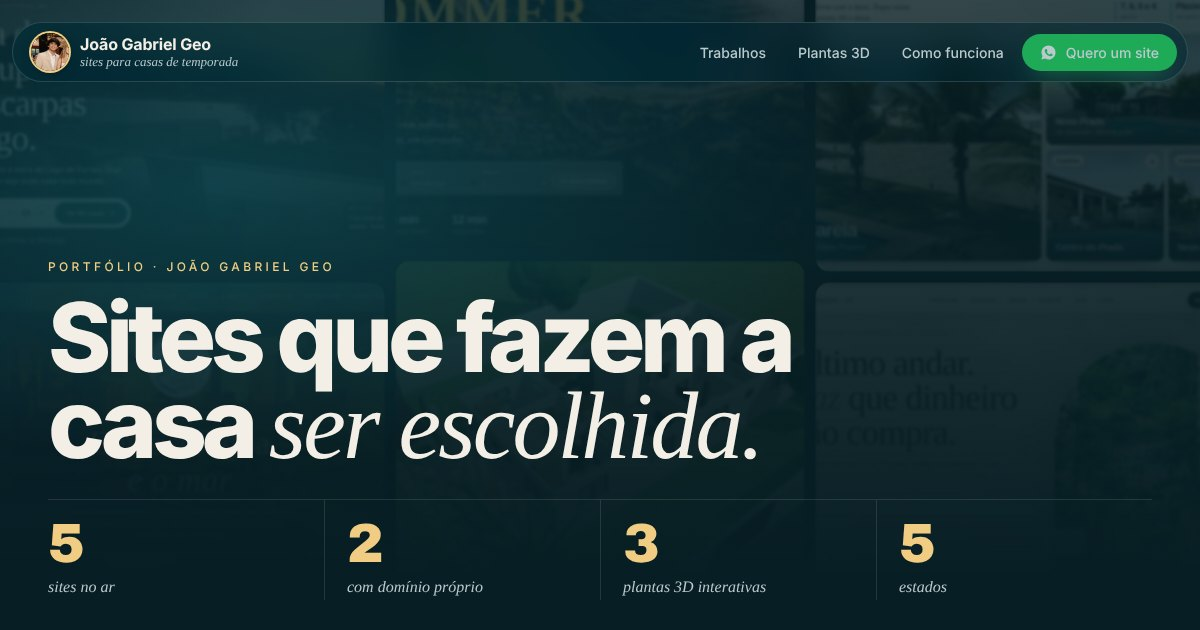
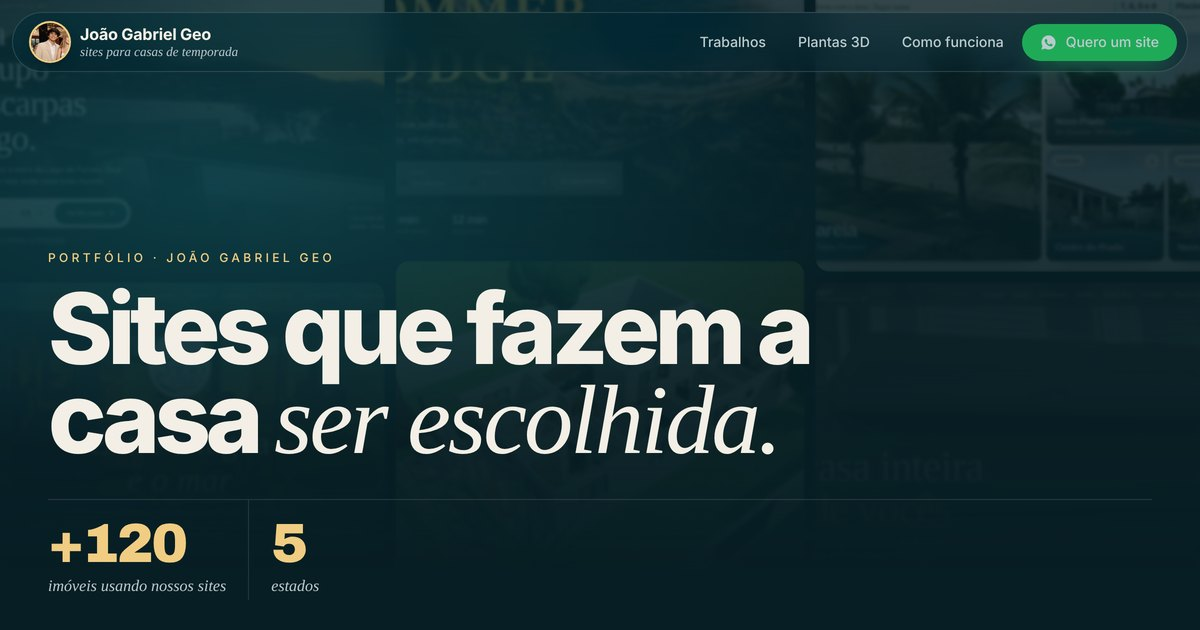
Portfolio: nova capa de link com os numeros atualizados
Claude-Session: https://claude.ai/code/session_019DD4G2vSwtV9pAvqrAYStw

diff --git a/portfolio/index.html b/portfolio/index.html
@@ -10,7 +10,7 @@
 <meta property="og:description" content="Mais de 120 imóveis já usam nossos sites: sites de apresentação com galeria, planta 3D e caminho curto até a reserva.">
 <meta property="og:type" content="website">
 <meta property="og:url" content="https://jgg190310-ops.github.io/Imoveis/portfolio/">
-<meta property="og:image" content="https://jgg190310-ops.github.io/Imoveis/portfolio/img/capa-link.jpg?v=4">
+<meta property="og:image" content="https://jgg190310-ops.github.io/Imoveis/portfolio/img/capa-link.jpg?v=5">
 <meta property="og:image:type" content="image/jpeg">
 <meta property="og:image:width" content="1200">
 <meta property="og:image:height" content="630">
